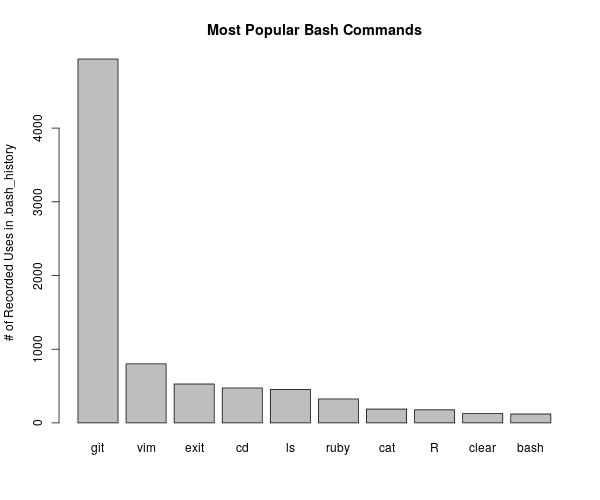
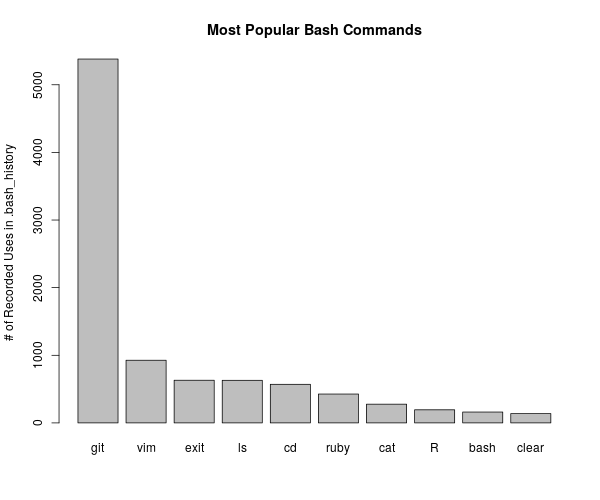
Cleanup Analyze Script & Graphing Utility

diff --git a/analyze.rb b/analyze.rb
@@ -2,7 +2,8 @@
 
 require 'json'
 
-data = { totals: {} }
+totals = {}
+bydate = {}
 aliases = {}
 
 # replace *.rb with ruby etc.
@@ -44,23 +45,24 @@ Dir.glob('data/*').each do |file|
     command = aliases[command] unless aliases[command].nil?
     command = sub_scripts(command)
 
-    data[:totals][command] = data[:totals][command].to_i + 1
+    totals[command] = totals[command].to_i + 1
 
     # NOTE Change How This is Found to Change Bin Width
-    bin = year + '-' + month + '-' + (day.to_i/8).to_i.to_s
+    bin = year + '-' + month + '-' + ((day.to_i/8).to_i * 8 + 1).to_s
 
-    data[bin] = {} if data[bin].nil?
-    data[bin][command] = data[bin][command].to_i + 1
+    bydate[command] = {} if bydate[command].nil?
+    bydate[command][bin] = bydate[command][bin].to_i + 1
   end
 end
 
-data[:totals] = data[:totals].sort_by{ |name, count| -count }.to_h
+totals = totals.sort_by{ |name, count| -count }.to_h
 
-puts "Total Lines Analyzed: " + data[:totals].values.reduce(:+).to_s
+puts "Total Lines Analyzed: " + totals.values.reduce(:+).to_s
 puts "------------------------------"
 
-data[:totals].first(20).each_with_index do |(name, count), index|
+totals.first(20).each_with_index do |(name, count), index|
   printf "#%02d: %-12s (%04d)\n", index+1, name, count
 end
 
-IO.write("results.json", data.to_json)
+File.write("totals.json", totals.to_json)
+File.write("dates.json", bydate.to_json)
